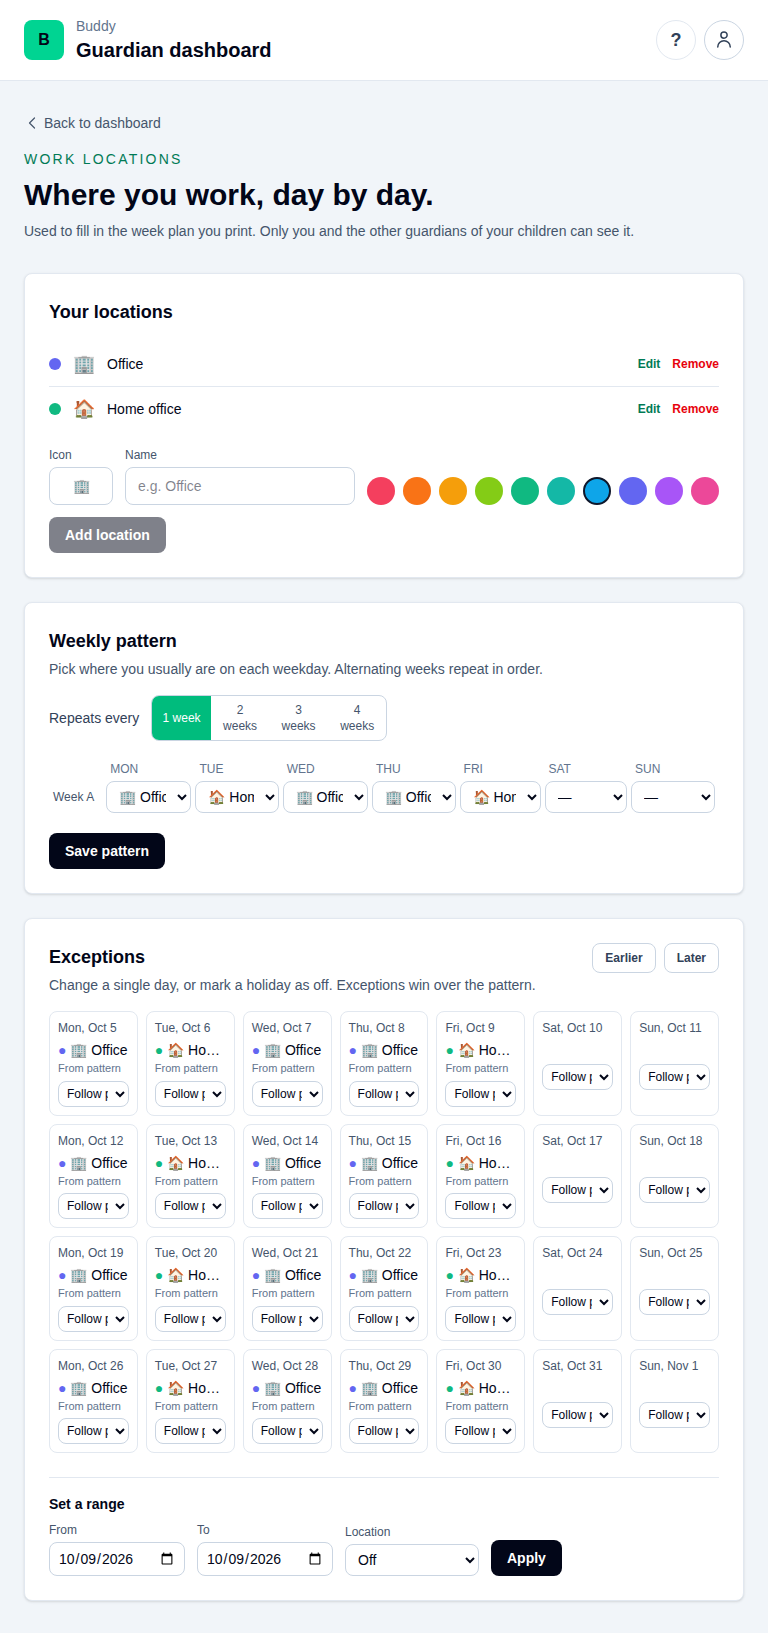
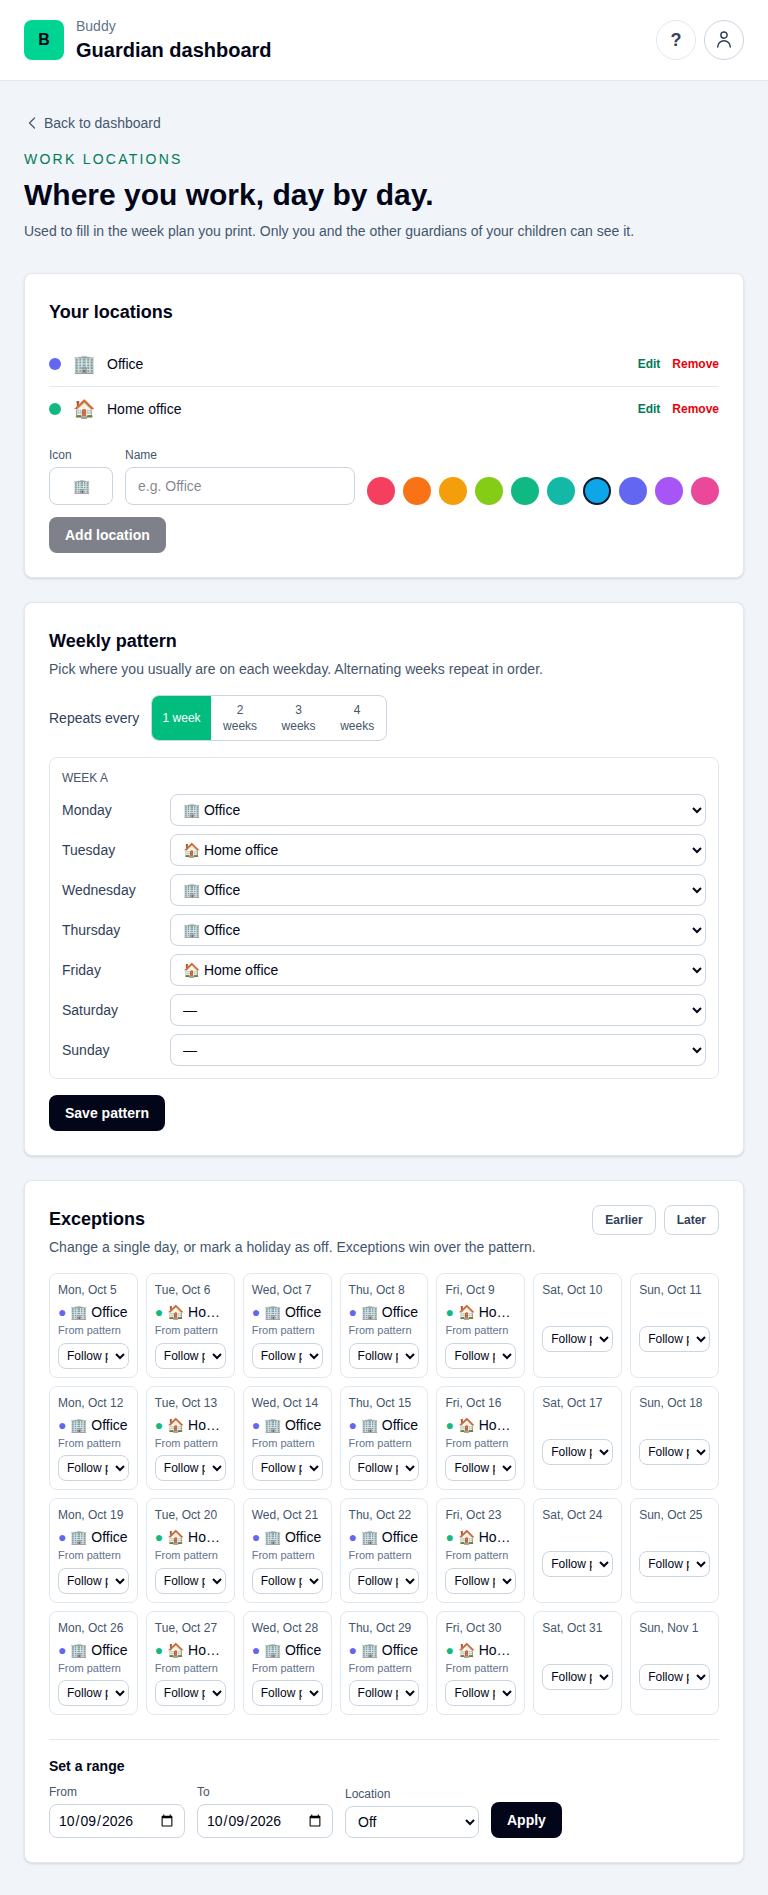
docs(responsive): record the phase 4 day lists and their breakpoints
Each week table switches to its day list where it stops fitting: pickup
below sm, sleep history below md, work pattern below lg, meal plan below
xl. Updates the analysis and pickup docs and the phone and tablet
screenshots. The screenshot run now waits for the first visible match of
a page's waitFor text, since the first match can be the hidden table.

diff --git a/src/frontend/buddy/screenshots/capture.spec.ts b/src/frontend/buddy/screenshots/capture.spec.ts
@@ -53,7 +53,9 @@ for (const entry of SCREENSHOT_PAGES) {
     await page.waitForLoadState('networkidle');
 
     if (entry.waitFor) {
-      await expect(page.getByText(entry.waitFor).first()).toBeVisible();
+      // Some pages render a table and a phone list and hide one with CSS, so the first match in
+      // the DOM can be the hidden copy.
+      await expect(page.getByText(entry.waitFor).filter({ visible: true }).first()).toBeVisible();
     }
 
     await expect(page.locator('app-loading-spinner')).toHaveCount(0);

diff --git a/docs/frontend/analysis/responsive-layout.md b/docs/frontend/analysis/responsive-layout.md
@@ -1,9 +1,9 @@
 # Responsive layout: phone, tablet and wide desktop
 
-Status: Phases 0–3 implemented (overflow check and tablet size in the screenshot run; no page is
+Status: Phases 0–4 implemented (overflow check and tablet size in the screenshot run; no page is
 wider than a phone any more; shared `app-page` and `app-card` with responsive padding; touch-sized
-controls, a sticky header, and menus, popovers and the delete dialog that fit a phone). Phases 4–6
-are proposed.
+controls, a sticky header, and menus, popovers and the delete dialog that fit a phone; the four week
+tables become day lists where they don't fit). Phases 5–6 are proposed.
 
 ## Context
 
@@ -225,6 +225,19 @@ history show one card per day (day as heading, then each column as a labelled ro
 and when printing, the existing `<table>` stays as it is. The table is hidden with `max-sm:hidden`
 and the list with `sm:hidden`. The month grid and the shared sleep diary keep scrolling sideways.**
 
+As built, each table switches where it really fits rather than at `sm` for all of them, judged from
+the tablet screenshots:
+
+| Table          | List below    | Why                                                                                                                                                                                 |
+| -------------- | ------------- | ----------------------------------------------------------------------------------------------------------------------------------------------------------------------------------- |
+| Pickup planner | `sm` (640px)  | About 410px wide in practice, 490px with the edit panel open                                                                                                                        |
+| Sleep history  | `md` (768px)  | 640px minimum; fits the ~672px tablet card                                                                                                                                          |
+| Work pattern   | `lg` (1024px) | Fits a tablet, but every location select is truncated there                                                                                                                         |
+| Meal plan      | `xl` (1280px) | Clipped on a tablet, and about 3px short of the longest meal names at `lg`. Desktop windows 1024–1279px wide therefore get the list without drag and drop, as does a landscape iPad |
+
+The table is hidden with a print-safe variant (`max-md:not-print:hidden` and so on, or
+`max-sm:hidden print:block` for pickup), because a printed page is narrower than these breakpoints.
+
 - Keeping the table means the table-structure specs and the e2e specs listed above keep passing
   at desktop size, which is the only size e2e runs at.
 - The stacked list reuses the existing cell components (`pickup-cell`, `meal-picker`), so phone and
@@ -381,9 +394,18 @@ Inline actions and child buttons: implemented.
 
 ### Phase 4 -- stacked phone view for the week tables
 
-- `manage-pickups`, `assign-mealplan` (picker only, no drag), `work-pattern-editor`,
-  `sleep-history`: add a `sm:hidden` list next to the `max-sm:hidden` table (Decision 3).
-- Unit specs: one case per component for the list markup. The e2e specs stay unchanged.
+Implemented, at the breakpoints in Decision 3:
+
+- `manage-pickups` and `assign-mealplan` render each cell from one `<ng-template>` used by both the
+  table and the list, so the two can't drift apart. The meal-plan list has no drag and drop.
+- `work-pattern-editor`: one block per week with a labelled select per weekday; the list's ids are
+  prefixed so they don't clash with the table.
+- `sleep-history`: a logged night takes three lines (date, then a 3×2 grid of values), an empty
+  night one line; the selected night keeps its highlight and `aria-current`.
+- Unit specs: existing assertions are scoped to `table`, since jsdom renders both layouts, and each
+  component has cases for its list. The e2e specs run at 1280px against the tables, unchanged.
+- The screenshot run waits for the first _visible_ match of `waitFor`, since the first match in
+  the DOM can now be the hidden copy.
 - `pickup-planning-and-daily-views.md`'s "Responsive behavior" section is updated to match.
 
 ### Phase 5 -- (optional) tab bar
@@ -406,16 +428,16 @@ Inline actions and child buttons: implemented.
 
 ## Decisions made
 
-| Question                | Decision                                                                                                                       |
-| ----------------------- | ------------------------------------------------------------------------------------------------------------------------------ |
-| Mechanism               | Tailwind default breakpoints, mobile-first; `md:` for tablet; `@container` only for dashboard widgets; no `BreakpointObserver` |
-| Repeated wrappers       | Shared `app-page` and `app-card` with responsive padding                                                                       |
-| Week tables on phones   | Stacked day list beside the existing table (`sm:hidden` / `max-sm:hidden`); tables stay for desktop and print                  |
-| Meal-plan drag on touch | Not offered on phones; the meal picker covers it                                                                               |
-| Touch targets           | At least 44px on `pointer-coarse:` for guardian pages; at least 44px always on child pages                                     |
-| Regression guard        | Overflow assertion in the screenshot run, plus a tablet project                                                                |
-| Phase 0 rollout         | Landed first with a temporary `knownOverflow` list, removed again in Phase 1                                                   |
-| Phone navigation        | Fix the profile menu and make the header sticky; tab bar deferred                                                              |
+| Question                | Decision                                                                                                                           |
+| ----------------------- | ---------------------------------------------------------------------------------------------------------------------------------- |
+| Mechanism               | Tailwind default breakpoints, mobile-first; `md:` for tablet; `@container` only for dashboard widgets; no `BreakpointObserver`     |
+| Repeated wrappers       | Shared `app-page` and `app-card` with responsive padding                                                                           |
+| Week tables on phones   | Day list beside the existing table, switching where each table fits (`sm`/`md`/`lg`/`xl`); tables stay for wider screens and print |
+| Meal-plan drag on touch | Not offered below `xl`; the meal picker covers it                                                                                  |
+| Touch targets           | At least 44px on `pointer-coarse:` for guardian pages; at least 44px always on child pages                                         |
+| Regression guard        | Overflow assertion in the screenshot run, plus a tablet project                                                                    |
+| Phase 0 rollout         | Landed first with a temporary `knownOverflow` list, removed again in Phase 1                                                       |
+| Phone navigation        | Fix the profile menu and make the header sticky; tab bar deferred                                                                  |
 
 ## Remaining open questions
 

diff --git a/docs/frontend/analysis/pickup-planning-and-daily-views.md b/docs/frontend/analysis/pickup-planning-and-daily-views.md
@@ -44,12 +44,12 @@ renders each grid cell in one of three states:
 
 The assignee kind controls the required input:
 
-| Kind | Frontend fields |
-| --- | --- |
-| Guardian | One guardian from `listChildGuardians`; selection is required. |
-| Self-escort | No assignee fields. |
-| Sibling | One other loaded child; selection is required. |
-| Playdate | Required host name with optional location and contact information. |
+| Kind        | Frontend fields                                                    |
+| ----------- | ------------------------------------------------------------------ |
+| Guardian    | One guardian from `listChildGuardians`; selection is required.     |
+| Self-escort | No assignee fields.                                                |
+| Sibling     | One other loaded child; selection is required.                     |
+| Playdate    | Required host name with optional location and contact information. |
 
 The save button is disabled until the kind-specific required value exists.
 Times are edited as `HH:mm`, sent as `HH:mm:00`, and displayed through the
@@ -83,11 +83,11 @@ clear action, matching the backend's read-only child access tier.
 [`PickupsService`](../../../src/frontend/buddy/src/app/core/pickups.service.ts)
 wraps the three backend routes with Promise-returning `HttpClient` calls:
 
-| Method | Request |
-| --- | --- |
-| `listSchedule` | `GET /pickups/children/{childId}/schedule?from=YYYY-MM-DD&to=YYYY-MM-DD` |
-| `assignPickup` | `PUT /pickups/children/{childId}/assignments?date=YYYY-MM-DD&slot={DropOff|PickUp}` |
-| `clearPickup` | `DELETE /pickups/children/{childId}/assignments?date=YYYY-MM-DD&slot={DropOff|PickUp}` |
+| Method         | Request                                                                       |
+| -------------- | ----------------------------------------------------------------------------- |
+| `listSchedule` | `GET /pickups/children/{childId}/schedule?from=YYYY-MM-DD&to=YYYY-MM-DD`      |
+| `assignPickup` | `PUT /pickups/children/{childId}/assignments?date=YYYY-MM-DD&slot={DropOff    | PickUp}` |
+| `clearPickup`  | `DELETE /pickups/children/{childId}/assignments?date=YYYY-MM-DD&slot={DropOff | PickUp}` |
 
 Slots travel by name (`DropOff`, `PickUp`) since the API switched to string
 enums ([openapi-client-contract.md](../../backend/analysis/openapi-client-contract.md)).
@@ -97,9 +97,11 @@ contract change.
 
 ## Responsive behavior and localization
 
-The planner table has a minimum width and sits inside a horizontal overflow
-container, so narrow screens scroll the seven-day grid instead of compressing
-cell editors beyond use. Static UI text is translated in the English and Danish
+From `sm` (640px) up, and when printing, the planner is a seven-day table.
+Below `sm` it is a list with one block per day and the Drop-off and Pickup
+cells stacked under their labels, so a phone never scrolls sideways. Both
+layouts render the same `app-pickup-cell` from one template
+([responsive-layout.md](responsive-layout.md#decision-3-on-phones-week-tables-get-a-stacked-day-list-next-to-the-table)). Static UI text is translated in the English and Danish
 `pickup` dictionaries. Date labels use the current `TranslationService`
 language, and times use the application's locale-aware display pipe.
 
@@ -116,8 +118,10 @@ language, and times use the application's locale-aware display pipe.
 - Several inline editor controls rely on placeholders or surrounding context
   instead of explicit associated labels. Keyboard and screen-reader behavior
   should be audited before treating the editor as fully accessible.
-- The wide grid is scrollable on mobile, but the fixed-width inline editor has
-  not been documented as tested across all supported viewport sizes.
+- Every screenshot run checks the planner for sideways overflow on a phone, a
+  tablet and a desktop, but only with all editors closed. That the open inline
+  editor (`w-56`, capped to the viewport) fits a phone's day list is measured,
+  not tested.
 
 These are frontend follow-ups, not changes to the pickup aggregate or its
 current authorization model.
